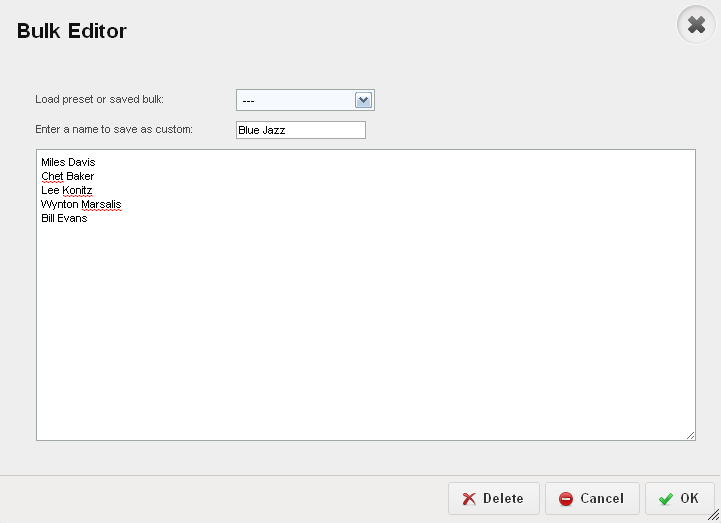
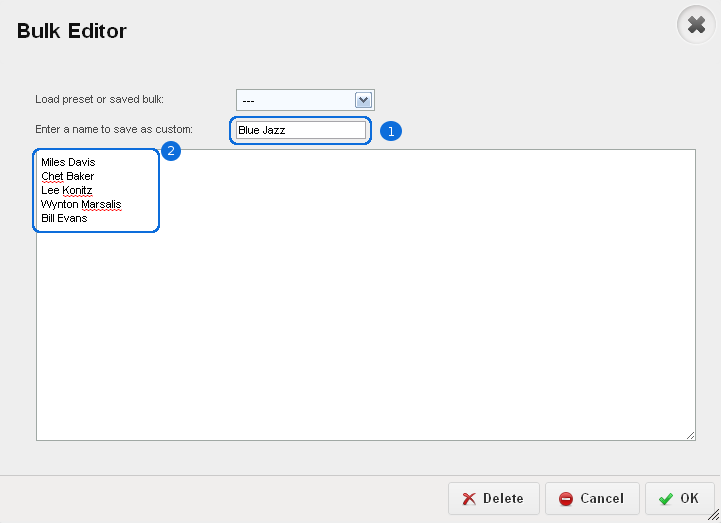
finished editor features

Changed region(s): [[0.3051, 0.2141, 0.5798, 0.2753], [0.0305, 0.2753, 0.2746, 0.3365], [0.0305, 0.4283, 0.2136, 0.4589]]

diff --git a/chapters/Editor/editorfeatures.rst b/chapters/Editor/editorfeatures.rst
@@ -424,27 +424,95 @@ In the case that you have a long list of choices or variables, or a list that yo
 	* - 2. Save a Preset
 	  - If a preset is not available, you can create one for later use
 	* - 3. Editor
-	  - 
+	  - Even though a preset was selected, you can still edit it after the fact. However, any changes made will not be saved unless it is saved as a custom preset
 
-Additionally, you can also save custom bulk lists. To create a custom bulk list, click on the “Bulk” button when adding choices, variables, rows or columns to a question. 
-Once the dialog appears, write or paste your list into the text field. Make sure that each item in the list is on a separate line. Then, enter a name for your list and click apply.
+Additionally, you can also save custom bulk lists. To create a custom bulk list, click on the “Bulk” button when adding choices, variables, rows or columns to a question. Once the dialog appears, write or paste your list into the text field. Make sure that each item in the list is on a separate line. Then, enter a name for your list and click apply.
 
-... figure:: ../../resources/editor/save_preset_in_bulk_editor.png
+.. figure:: ../../resources/editor/save_preset_in_bulk_editor.png
 	:align: center
 	:class: screenshot
 	:alt: Bulk Editor
-	:scale: 70%	
+	:scale: 70%
+
+	*Figure 5.12* Save a custom preset
+
+.. list-table::
+	:widths: 30 70
+	:header-rows: 1
+
+	* - Section
+	  - Description
+	* - 1. Custom Preset
+	  - Enter the name of the present you'd like to use
+	* - 2. Preset Choices
+	  - Information typed into here will be saved in the custom preset. Note that, despite the fact a preset was selected, you can still alte it after the fact.
+
+When you return to the Bulk Editor, the preset, "Blue Jazz" will be available as a selectable option.
 
 .. warning::
 
-	
+	When dealing with the Bulk Editor in a multi-language survey, both sides of the Editor must match. In many cases, you may have an [Enter] on one side which is why you are unable to save the preset
+
+	.. image:: ../../resources/editor/multi_language_bulk.png
+		:align: center
+		:class: screenshot
+		:alt: Save a Preset
+		:scale: 70%	
 
 
-Templates (Save, Apply)
-^^^^^^^^^^^^^^^^^^^^^^^
+Template (Save)
+^^^^^^^^^^^^^^^
+
+It’s possible to create templates from existing surveys, allowing them to be re-used in the future.
+
+To do so, open the survey from which you’d like to create the template, and click on the “Survey” tab in your editor. Then, select “Save Template”. All of the questions and branching conditions will be saved in the template.
+
+.. figure:: ../../resources/editor/save_a_template.png
+	:align: center
+	:class: screenshot
+	:alt: Save Template
+	:scale: 70%	
+
+	*Figure 5.13* Save a template process	
+
+The next time you create a survey, you’ll have the option of using the template.
+
+.. note::
+
+	If you’re using a multi-user account, you can create templates and share them with others.
+
+Template (Apply)
+^^^^^^^^^^^^^^^^
+
+It’s possible to apply previosuly saved templates into existing surveys.
+
+To do so, open the survey from which you’d like to apply the template, and click on the “Survey” tab in your editor. Then, select "Apply Template”. In the pop-up, input a reconizable Title, a brief description, and click [Save]. All of the questions and branching logic will be applied to the template.
+
+.. figure:: ../../resources/editor/apply_a_template.png
+	:align: center
+	:class: screenshot
+	:alt: Apply Template
+	:scale: 70%
+
+	*Figure 5.14* Apply a template process
+
+.. warning::
+
+	If you apply a template to a survey, it will replace its contents with the templates. Be careful when applying a template to an already populated survey.
 
 Show Branching/Skip Info
 ^^^^^^^^^^^^^^^^^^^^^^^^
+
+By default, respondents don’t know if there is branching or skipping information on a page. Enabling this option does the opposite, and informs the respondent that there is branching logic present. 
+
+
+.. figure:: ../../resources/editor/show_skipping_branching_info.png
+	:align: center
+	:class: screenshot
+	:alt: Show Branching/Skipping Info
+	:scale: 70%
+
+	*Figure 5.15* Enabling this will place any branching and skipping at the top of the survey page.
 
 Visual Editor
 ^^^^^^^^^^^^^
@@ -459,7 +527,7 @@ To access the Visual Editor, click on a text area in the floating box on the lef
 	:alt: Visual Editor
 	:scale: 70%	
 
-	*Figure 5.9* The visual editor 
+	*Figure 5.9* The visual editor with "Section Heading" in the question title
 
 .. list-table::
 	:widths: 30 80
@@ -467,8 +535,12 @@ To access the Visual Editor, click on a text area in the floating box on the lef
 
 	* - Section
 	  - Description
-	* - 1. 
-	  - 
+	* - 1. Text Alterations
+	  - Make any changes to font specific sections, such as bold, italicize, center a block of text, etc.
+	* - 2. Content Alterations
+	  - Input text directly from Microsoft Word and retain its style, insert a web link, or a video straight from YouTube
+	* - 3. Style Alterations
+	  - Adjust the font size, font type, styles, or edit the source directly
 
 .. note::
 
